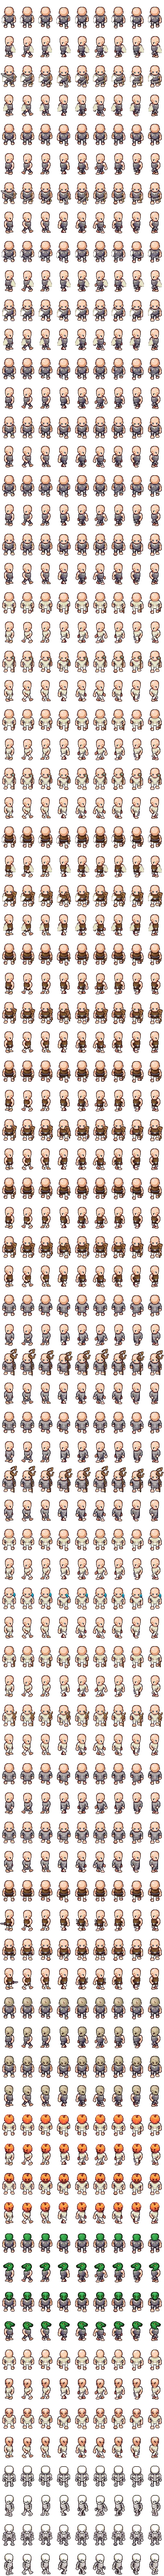
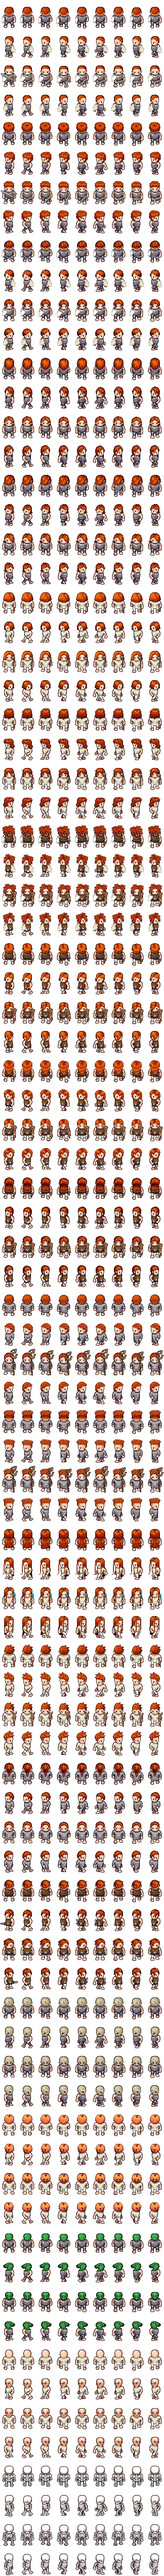
Give each spec its own hair
Armour comes off `armorType`, and a class's specs share one, so a warrior's
protection and arms tiles were the same person holding the same sword. Hair is
the channel that separates them: a few pixels at the top of a head, which is
enough at this size because a silhouette here is mostly outline.

Seventeen styles, one per spec, and the bosses get none — a zombie, a lantern,
a lizard, an alien and a skeleton are not wearing any.

Named by style rather than by path, because LPC keeps them in three different
places: some under `adult/`, some under `male/`, some behind another `fg/`.
The resolver written for the weapons finds whichever it is, which is the
second time that has paid for itself.

diff --git a/scripts/lpc.ts b/scripts/lpc.ts
@@ -152,6 +152,39 @@ const BOSS: Record<string, Layer[]> = {
   ],
 }
 
+/**
+ * Hair, one per spec.
+ *
+ * This is the channel that separates two specs of the same class. Armour comes
+ * off `armorType` and a warrior's two specs wear the same plate, so without
+ * this the protection and arms tiles are the same person holding the same
+ * sword. It is a few pixels at the top of a head and it is enough, because at
+ * this size a silhouette is mostly outline.
+ *
+ * Named by style rather than by path: some styles keep their frames under
+ * `adult/`, some under `male/`, some behind another `fg/`, and the resolver
+ * below finds whichever it is.
+ */
+const HAIR: Record<string, string> = {
+  'warrior-protection': 'buzzcut',
+  'warrior-arms': 'mop',
+  'paladin-protection': 'parted',
+  'paladin-holy': 'long',
+  'paladin-retribution': 'swoop',
+  'priest-discipline': 'bob',
+  'priest-shadow': 'long_messy',
+  'druid-guardian': 'dreadlocks_short',
+  'druid-restoration': 'braid',
+  'druid-balance': 'long_straight',
+  'druid-feral': 'unkempt',
+  'shaman-restoration': 'cornrows',
+  'shaman-elemental': 'twists_fade',
+  'mage-frost': 'xlong',
+  'warlock-destruction': 'spiked',
+  'hunter-marksmanship': 'ponytail',
+  'rogue-assassination': 'pixie',
+}
+
 /** Only tanks, because only tanks are holding one. */
 const SHIELD = 'shield/heater'
 
@@ -197,7 +230,7 @@ interface Layer {
   path: string
 }
 
-function layersFor(classId: ClassId, role: string): Layer[] {
+function layersFor(classId: ClassId, spec: string, role: string): Layer[] {
   const armour = ARMOUR[CLASSES[classId].armorType] ?? ARMOUR.cloth!
   const weapon = WEAPON[classId]
 
@@ -207,6 +240,14 @@ function layersFor(classId: ClassId, role: string): Layer[] {
     { z: 60, path: `${armour.torso}/walk` },
     { z: 100, path: 'head/heads/human/male/walk' },
   ]
+
+  // Above the head, below anything held: hair is drawn on a head, and a shield
+  // arm passes in front of it.
+  const hair = HAIR[`${classId}-${spec}`]
+  if (hair) {
+    const found = findWalk(`hair/${hair}`)
+    if (found) stack.push({ z: 110, path: found })
+  }
 
   if (role === 'tank') {
     const shield = findWalk(SHIELD)
@@ -224,7 +265,7 @@ function specs(): Array<{ id: string; layers: Layer[] }> {
   const out: Array<{ id: string; layers: Layer[] }> = []
   for (const classId of CLASS_ORDER) {
     for (const spec of CLASSES[classId].specs) {
-      out.push({ id: `${classId}-${spec.id}`, layers: layersFor(classId, spec.role) })
+      out.push({ id: `${classId}-${spec.id}`, layers: layersFor(classId, spec.id, spec.role) })
     }
   }
   for (const [id, layers] of Object.entries(BOSS)) {

diff --git a/art/LPC-CREDITS.md b/art/LPC-CREDITS.md
@@ -8,6 +8,23 @@ cannot fall behind a change to them.
 
 - `body/bodies/male` — bluecarrot16,JaidynReiman,Benjamin K. Smith (BenCreating),Evert,Eliza Wyatt (ElizaWy),TheraHedwig,MuffinElZangano,Durrani,Johannes Sjölund (wulax),Stephen Challener (Redshrike) (OGA-BY 3.0,CC-BY-SA 3.0,GPL 3.0)
 - `body/bodies/skeleton` — bluecarrot16,Napsio,JaidynReiman,Johannes Sjölund (wulax),Stephen Challener (Redshrike) (OGA-BY 3.0,CC-BY-SA 3.0,GPL 3.0)
+- `hair/bob` — ElizaWy,bluecarrot16 (CC0)
+- `hair/braid` — Nila122,ElizaWy (OGA-BY 3.0,CC-BY-SA 3.0,GPL 3.0,GPL 2.0)
+- `hair/buzzcut` — ElizaWy (OGA-BY 3.0)
+- `hair/cornrows` — ElizaWy,bluecarrot16 (CC0)
+- `hair/dreadlocks_short` — ElizaWy,bluecarrot16 (CC0)
+- `hair/long_messy` — Mandi Paugh,bluecarrot16 (GPL 2.0,GPL 3.0,CC-BY 3.0)
+- `hair/long_straight` — JaidynReiman,thecilekli,bluecarrot16 (CC0)
+- `hair/long` — JaidynReiman,Manuel Riecke (MrBeast) (CC-BY-SA 3.0,GPL 3.0)
+- `hair/mop` — Radomir Dopieralski,bluecarrot16 (CC-BY-SA 3.0,GPL 3.0)
+- `hair/parted` — JaidynReiman,Joe White,Manuel Riecke (MrBeast) (CC-BY-SA 3.0,GPL 3.0)
+- `hair/pixie` — JaidynReiman,Manuel Riecke (MrBeast) (CC-BY-SA 3.0,GPL 3.0)
+- `hair/ponytail` — JaidynReiman,Manuel Riecke (MrBeast) (CC-BY-SA 3.0,GPL 3.0)
+- `hair/spiked` — kcilds/Rocetti/Eredah (CC-BY 4.0)
+- `hair/swoop` — JaidynReiman,Manuel Riecke (MrBeast) (CC-BY-SA 3.0,GPL 3.0)
+- `hair/twists_fade` — bluecarrot16 (CC0)
+- `hair/unkempt` — JaidynReiman,Manuel Riecke (MrBeast) (CC-BY-SA 3.0,GPL 3.0)
+- `hair/xlong` — JaidynReiman,Nila122 (OGA-BY 3.0,CC-BY-SA 3.0,GPL 2.0,GPL 3.0)
 - `head/heads/alien` — bluecarrot16,Benjamin K. Smith (BenCreating),Nila122 (OGA-BY 3.0,CC-BY-SA 3.0,GPL 3.0)
 - `head/heads/human/male_elderly` — Benjamin K. Smith (BenCreating),Eliza Wyatt (ElizaWy),Stephen Challener (Redshrike) (OGA-BY 3.0,CC-BY 3.0)
 - `head/heads/human/male_gaunt` — Stephen Challener (Redshrike),bluecarrot16 (OGA-BY 3.0,CC-BY-SA 3.0,GPL 3.0)
